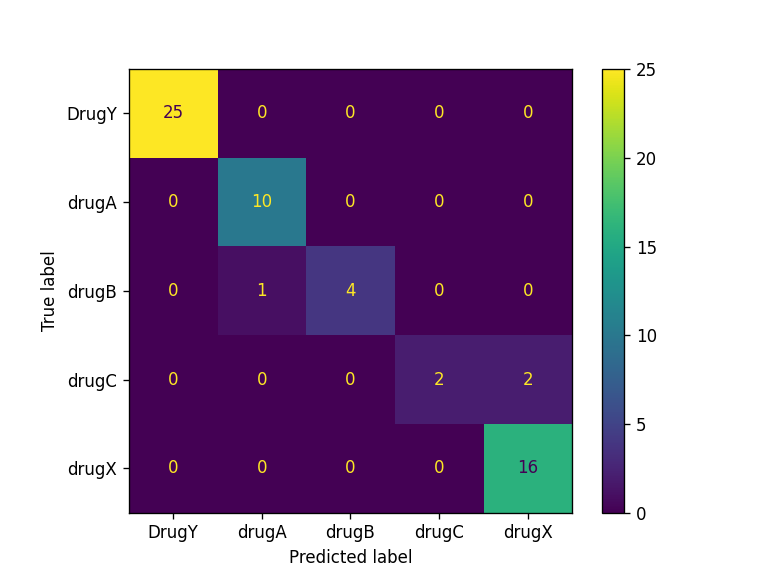
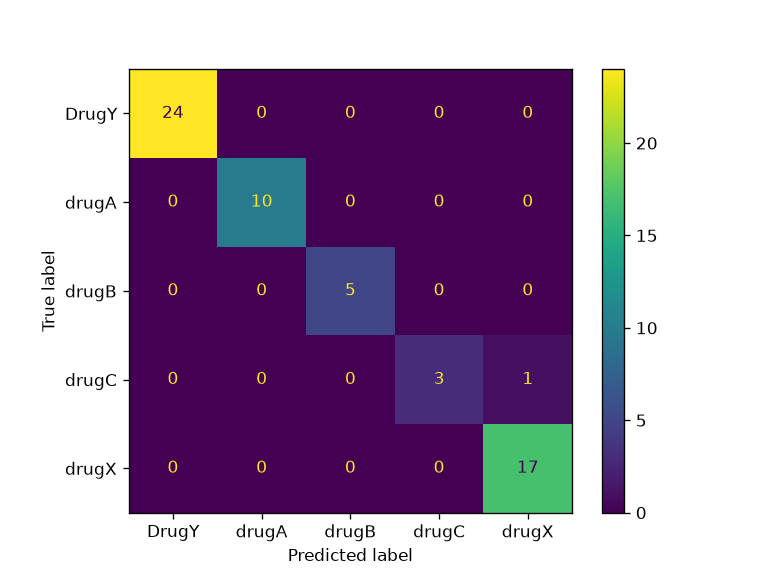
Update with new results

diff --git a/train.py b/train.py
@@ -23,8 +23,8 @@ X_train, X_test, y_train, y_test = train_test_split(
 
 
 ## Pipeline
-cat_col = [1,2,3]
-num_col = [0,4]
+cat_col = [1, 2, 3]
+num_col = [0, 4]
 
 transform = ColumnTransformer(
     [